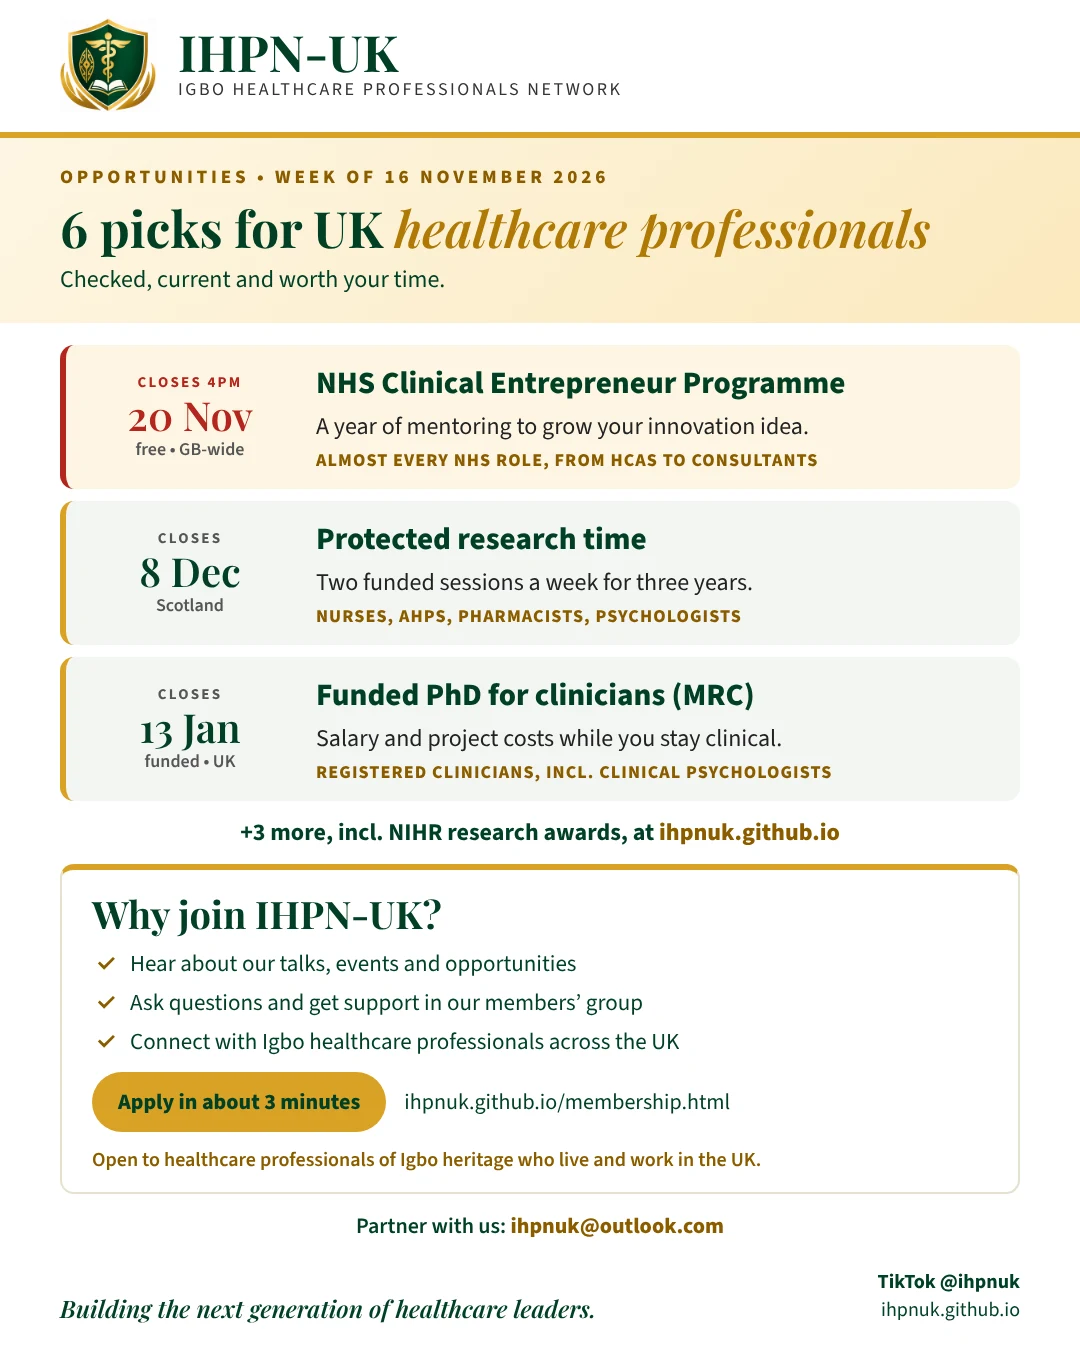
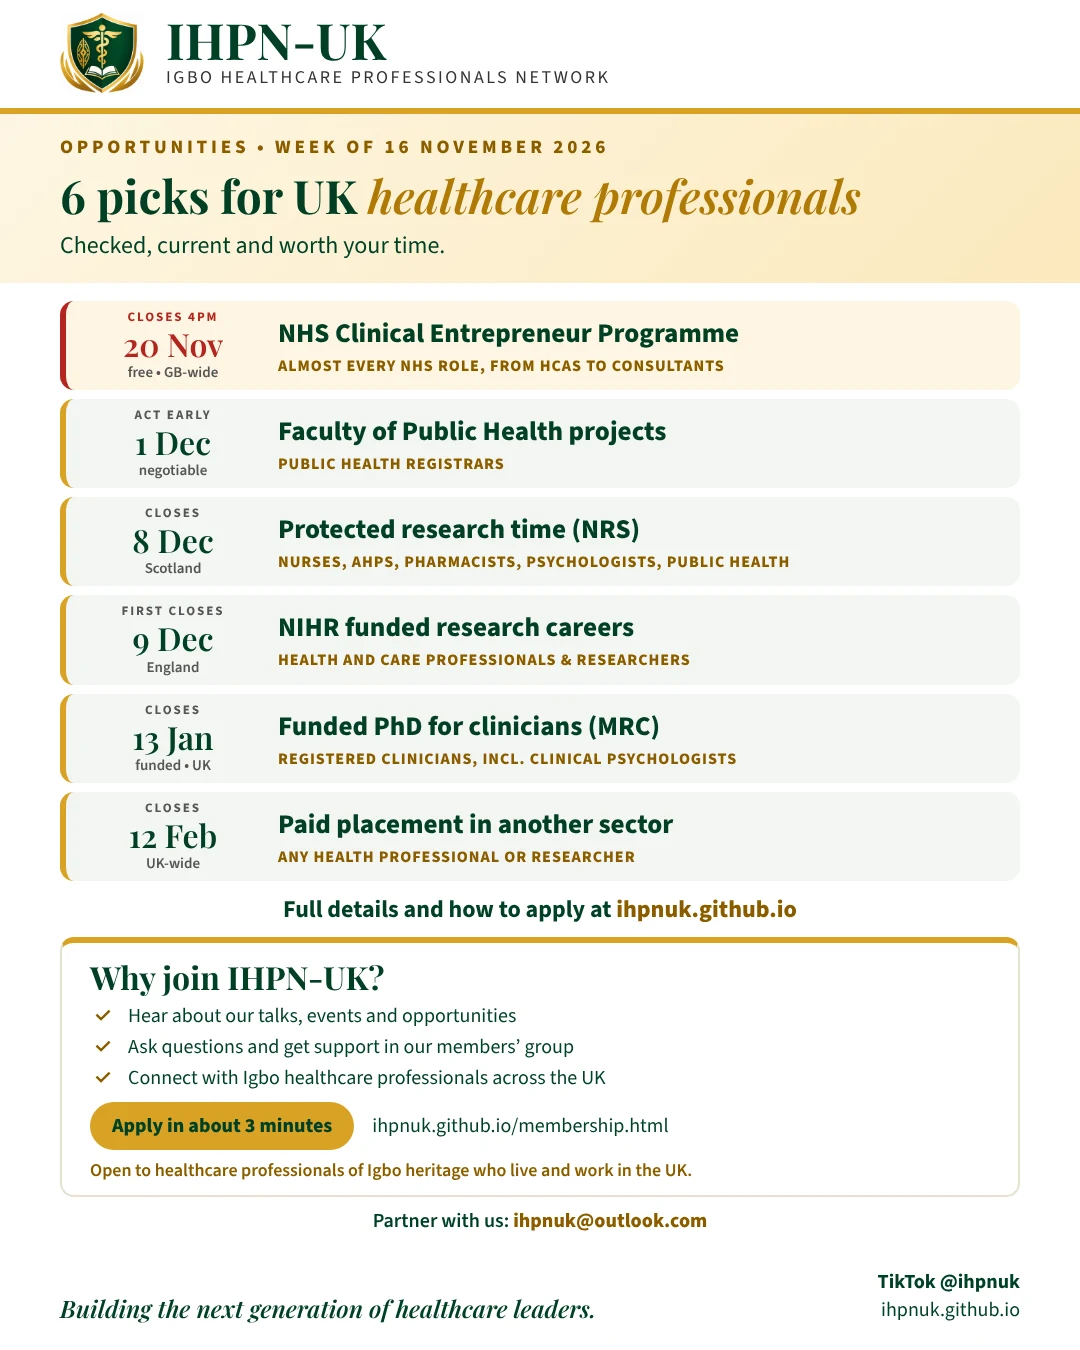
Show all 6 picks on the 16 November card and align alt text (#50)
Claude-Session: https://claude.ai/code/session_01TceWZ1n8TxHLDNLvaqp6sJ

Changed region(s): [[0.0, 0.0, 1.0, 0.9333], [0.0306, 0.4667, 0.0611, 0.5289]]

diff --git a/opportunities-2026-11-16.html b/opportunities-2026-11-16.html
@@ -211,7 +211,7 @@
       </article>
     </div>
     <p style="margin-top:20px;color:var(--muted);font-size:.9rem"><em>Checked on official sites, 15 Nov 2026. Photo: Pexels. IHPN-UK isn&rsquo;t paid to feature these. Check the official page before you apply.</em></p>
-    <figure style="margin:36px auto 0;text-align:center"><img src="assets/opportunities/2026-11-16.webp" width="1080" height="1350" alt="IHPN-UK opportunities for the week of 16 November 2026: NHS Clinical Entrepreneur Programme, a free year of mentoring and workshops for NHS staff with an innovation idea, closes 20 November; Faculty of Public Health projects for public health registrars, Act Early project by 1 December (negotiable); NHS Research Scotland Clinician Researcher scheme, protected research time for NHS Scotland nurses, AHPs, pharmacists, psychologists and public health specialists, closes 8 December; MRC funded PhD fellowship for registered clinicians including clinical psychologists, closes 13 January. Two more picks, NIHR research awards in England and a paid cross-sector placement, at ihpnuk.github.io. Why join IHPN-UK: hear about our talks, events and opportunities, ask questions and get support in our members&rsquo; group, and connect with Igbo healthcare professionals across the UK." loading="lazy" style="border-radius:14px;box-shadow:var(--shadow);margin:0 auto;width:100%;max-width:420px;height:auto"><figcaption style="color:var(--muted);margin-top:10px">Share this week&rsquo;s card</figcaption></figure>
+    <figure style="margin:36px auto 0;text-align:center"><img src="assets/opportunities/2026-11-16.webp" width="1080" height="1350" alt="IHPN-UK opportunities for the week of 16 November 2026, 6 picks: NHS Clinical Entrepreneur Programme for almost every NHS role, closes 20 November; Faculty of Public Health projects for public health registrars, Act Early project by 1 December (negotiable); protected research time in Scotland for nurses, AHPs, pharmacists, psychologists and public health specialists, closes 8 December; NIHR funded research careers in England for health and care professionals and researchers, first closes 9 December; MRC funded PhD for registered clinicians including clinical psychologists, closes 13 January; paid placement in another sector for any health professional or researcher, UK-wide, closes 12 February. Why join IHPN-UK: hear about our talks, events and opportunities, ask questions and get support in our members&rsquo; group, and connect with Igbo healthcare professionals across the UK." loading="lazy" style="border-radius:14px;box-shadow:var(--shadow);margin:0 auto;width:100%;max-width:420px;height:auto"><figcaption style="color:var(--muted);margin-top:10px">Share this week&rsquo;s card</figcaption></figure>
     <aside class="convo" aria-labelledby="convo-h"><div class="convo-ic"><svg viewBox="0 0 24 24" aria-hidden="true"><path d="M4 5h12a2 2 0 0 1 2 2v6a2 2 0 0 1-2 2H9l-4 3v-3H4a2 2 0 0 1-2-2V7a2 2 0 0 1 2-2z"/><path d="M20 9h1a1 1 0 0 1 1 1v6a1 1 0 0 1-1 1h-1v3l-3-3h-5"/></svg></div><div><h2 id="convo-h">Join the conversation</h2><p>Support workers and HCAs: the RCN Foundation&rsquo;s education grants reopen in spring 2027, and we&rsquo;ll flag them the moment they do. Health visitors and pharmacists: what would help your career most this year? Tell us and we&rsquo;ll go looking.</p><div class="actions"><a class="btn btn-gold" href="https://www.tiktok.com/@ihpnuk" target="_blank" rel="noopener"><svg viewBox="0 0 24 24" aria-hidden="true"><path d="M16.6 5.8A4.3 4.3 0 0 1 15.5 3h-3.1v12.4a2.6 2.6 0 1 1-2.6-2.6c.3 0 .5 0 .8.1V9.7a5.8 5.8 0 1 0 5 5.7V9.1a7.4 7.4 0 0 0 4.3 1.4V7.4a4.3 4.3 0 0 1-3.3-1.6z"/></svg> Message us on TikTok<span class="sr"> (opens in new tab)</span></a><a class="btn btn-outline dark" href="https://www.instagram.com/ihpnuk/" target="_blank" rel="noopener"><svg viewBox="0 0 24 24" aria-hidden="true"><path fill-rule="evenodd" d="M7.5 2h9A5.5 5.5 0 0 1 22 7.5v9a5.5 5.5 0 0 1-5.5 5.5h-9A5.5 5.5 0 0 1 2 16.5v-9A5.5 5.5 0 0 1 7.5 2zm0 2A3.5 3.5 0 0 0 4 7.5v9A3.5 3.5 0 0 0 7.5 20h9a3.5 3.5 0 0 0 3.5-3.5v-9A3.5 3.5 0 0 0 16.5 4h-9zM12 7a5 5 0 1 1 0 10 5 5 0 0 1 0-10zm0 2a3 3 0 1 0 0 6 3 3 0 0 0 0-6zm5.3-3.6a1.3 1.3 0 1 1 0 2.6 1.3 1.3 0 0 1 0-2.6z"/></svg> Message us on Instagram<span class="sr"> (opens in new tab)</span></a><a class="btn btn-outline dark" href="mailto:ihpnuk@outlook.com?subject=Opportunities%2016%20November"><svg viewBox="0 0 24 24" aria-hidden="true"><path d="M3 5h18a1 1 0 0 1 1 1v12a1 1 0 0 1-1 1H3a1 1 0 0 1-1-1V6a1 1 0 0 1 1-1zm1 2.4V17h16V7.4l-8 5.3-8-5.3zM5.6 7 12 11.2 18.4 7H5.6z"/></svg> Email us</a></div><p class="convo-mail">or write to <a href="mailto:ihpnuk@outlook.com">ihpnuk@outlook.com</a></p></div></aside>
   </div>
 </section>
